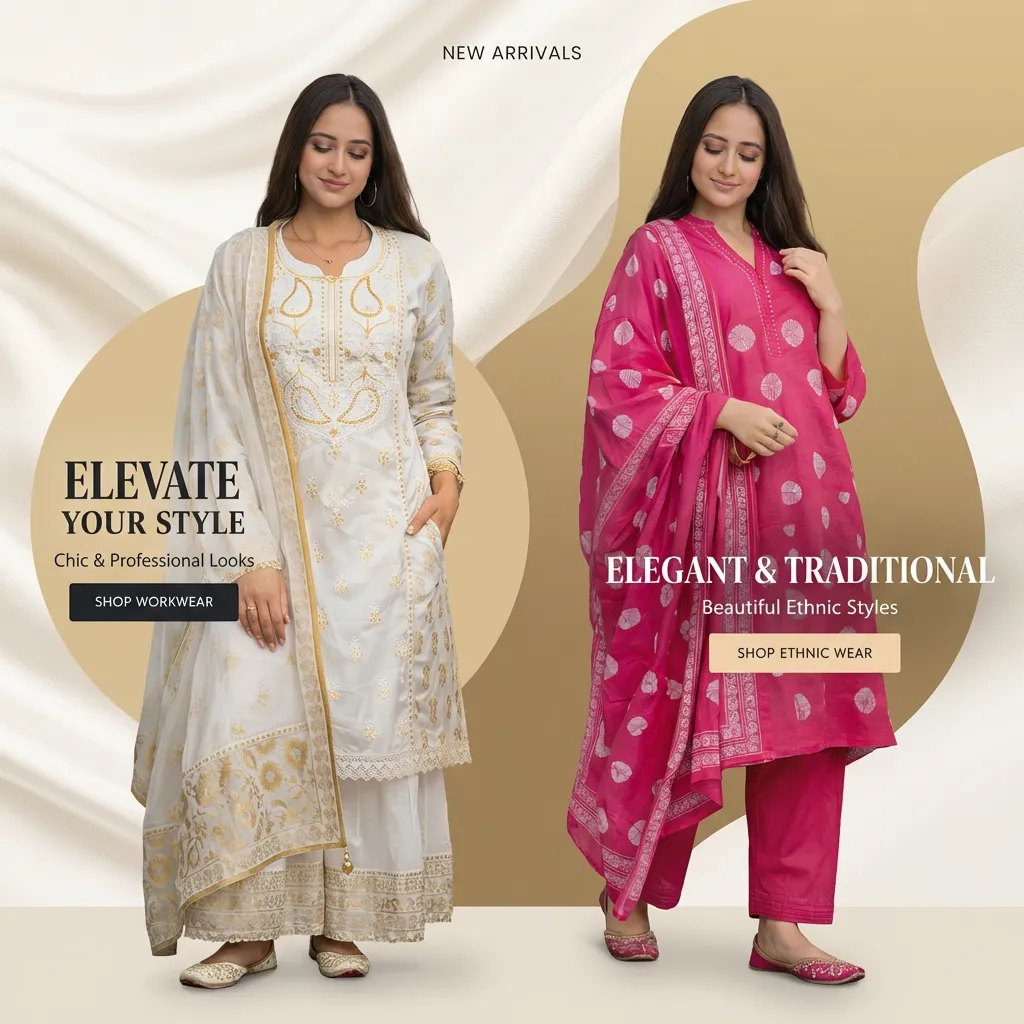
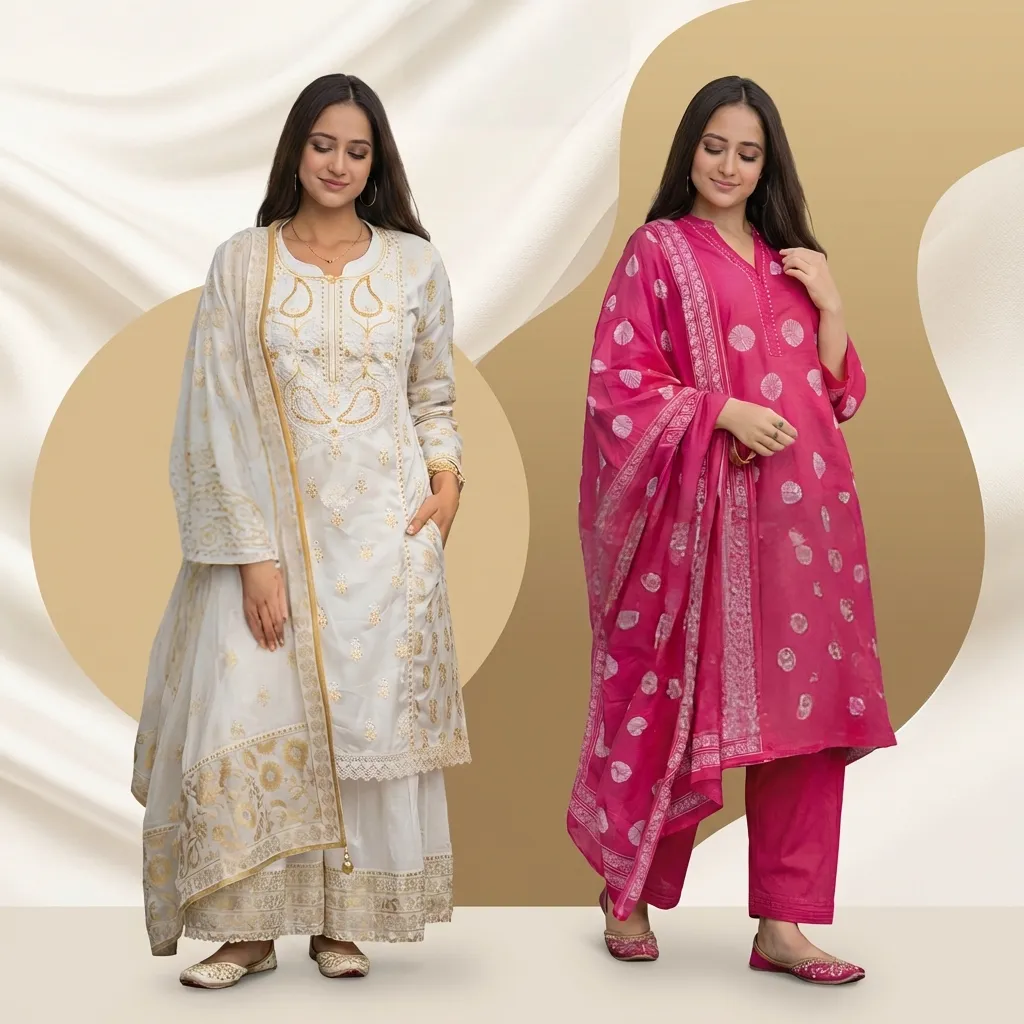
updated

diff --git a/backend/scripts/verify_sort_order.ts b/backend/scripts/verify_sort_order.ts
@@ -1,0 +1,81 @@
+import sequelize from '../src/config/database.js';
+import Product from '../src/modules/catalog/models/product.model.js';
+import Category from '../src/modules/catalog/models/category.model.js';
+
+const verifySortOrder = async () => {
+    try {
+        await sequelize.authenticate();
+        console.log('Database connected.');
+
+        // 1. Create a dummy category if needed
+        let category = await Category.findOne();
+        if (!category) {
+            category = await Category.create({ name: 'Test Cat', slug: 'test-cat', is_active: true });
+        }
+
+        // 2. Clean up old test data (optional, or just ignore)
+        // await Product.destroy({ where: { name: ['Test A', 'Test B', 'Test C'] } });
+
+        // 3. Create 3 products with specific sort_order
+        // Using distinct names to avoid slug collision if possible, or random slugs
+        const timestamp = Date.now();
+        const p1 = await Product.create({
+            name: `Test P1 ${timestamp}`,
+            slug: `test-p1-${timestamp}`,
+            category_id: category.id,
+            base_price: 100,
+            sort_order: 10,
+            is_active: true
+        });
+        const p2 = await Product.create({
+            name: `Test P2 ${timestamp}`,
+            slug: `test-p2-${timestamp}`,
+            category_id: category.id,
+            base_price: 100,
+            sort_order: 20, // Should be first
+            is_active: true
+        });
+        const p3 = await Product.create({
+            name: `Test P3 ${timestamp}`,
+            slug: `test-p3-${timestamp}`,
+            category_id: category.id,
+            base_price: 100,
+            sort_order: 5, // Should be last
+            is_active: true
+        });
+
+        console.log(`Created products: P1(10), P2(20), P3(5)`);
+
+        // 4. Query using the same logic as controller
+        const products = await Product.findAll({
+            where: {
+                id: [p1.id, p2.id, p3.id]
+            },
+            order: [['sort_order', 'DESC'], ['created_at', 'DESC']]
+        });
+
+        const ids = products.map(p => p.id);
+        console.log('Retrieved order:', products.map(p => `${p.name} (${p.sort_order})`));
+
+        // Expected: P2, P1, P3
+        if (ids[0] === p2.id && ids[1] === p1.id && ids[2] === p3.id) {
+            console.log('✅ Verification SUCCEEDED: Products sorted by sort_order DESC.');
+        } else {
+            console.error('❌ Verification FAILED: Incorrect order.');
+            process.exit(1);
+        }
+
+        // Cleanup
+        await p1.destroy();
+        await p2.destroy();
+        await p3.destroy();
+
+        process.exit(0);
+
+    } catch (error) {
+        console.error('Verification Error:', error);
+        process.exit(1);
+    }
+};
+
+verifySortOrder();

diff --git a/admin/src/pages/Products/ProductEditor.jsx b/admin/src/pages/Products/ProductEditor.jsx
@@ -22,7 +22,8 @@ export default function ProductEditor() {
         additionalImages: ['', '', ''], // Array for 3 additional images
         is_active: true,
         is_new_arrival: false,
-        is_featured: false
+        is_featured: false,
+        sort_order: 0
     });
 
     const [categories, setCategories] = useState([]);
@@ -65,7 +66,8 @@ export default function ProductEditor() {
                                 : ['', '', ''],
                             is_active: product.is_active !== undefined ? product.is_active : true,
                             is_new_arrival: product.is_new_arrival || false,
-                            is_featured: product.is_featured || false
+                            is_featured: product.is_featured || false,
+                            sort_order: product.sort_order || 0
                         });
 
                         // Fill remaining slots if less than 3 images
@@ -166,7 +168,10 @@ export default function ProductEditor() {
                 category_id: formData.category,
                 is_active: formData.is_active,
                 is_new_arrival: formData.is_new_arrival,
-                is_featured: formData.is_featured
+                is_active: formData.is_active,
+                is_new_arrival: formData.is_new_arrival,
+                is_featured: formData.is_featured,
+                sort_order: parseInt(formData.sort_order) || 0
             };
 
             if (isEditing) {
@@ -396,6 +401,19 @@ export default function ProductEditor() {
                                     </option>
                                 ))}
                             </select>
+                        </div>
+
+                        <div>
+                            <label className="block text-xs font-bold uppercase tracking-widest text-stone-400 mb-2">Sort Order</label>
+                            <input
+                                type="number"
+                                name="sort_order"
+                                value={formData.sort_order}
+                                onChange={handleChange}
+                                className="w-full px-4 py-3 rounded-lg bg-stone-50 border border-stone-200 focus:border-ruvera-gold outline-none"
+                                placeholder="0"
+                            />
+                            <p className="text-xs text-stone-400 mt-1">Higher numbers appear first.</p>
                         </div>
 
                         <div>

diff --git a/admin/src/pages/Products/ProductList.jsx b/admin/src/pages/Products/ProductList.jsx
@@ -117,6 +117,7 @@ export default function ProductList() {
                         <thead>
                             <tr className="bg-stone-50 border-b border-stone-100">
                                 <th className="p-4 font-medium text-stone-500 uppercase tracking-wider text-xs">Product</th>
+                                <th className="p-4 font-medium text-stone-500 uppercase tracking-wider text-xs">Order</th>
                                 <th className="p-4 font-medium text-stone-500 uppercase tracking-wider text-xs">Code</th>
                                 <th className="p-4 font-medium text-stone-500 uppercase tracking-wider text-xs">Price</th>
                                 <th className="p-4 font-medium text-stone-500 uppercase tracking-wider text-xs">Status</th>
@@ -167,6 +168,7 @@ export default function ProductList() {
                                                 </div>
                                             </div>
                                         </td>
+                                        <td className="p-4 text-sm text-stone-600 font-mono">{product.sort_order}</td>
                                         <td className="p-4 text-sm text-stone-600 font-mono">{product.code}</td>
                                         <td className="p-4 text-sm font-medium text-midnight">{settings.currency_symbol}{product.price.toLocaleString()}</td>
                                         <td className="p-4">

diff --git a/backend/scripts/add_sort_order.js b/backend/scripts/add_sort_order.js
@@ -1,0 +1,28 @@
+import sequelize from '../src/config/database.js';
+
+const runMigration = async () => {
+    try {
+        await sequelize.authenticate();
+        console.log('Database connection estabilished.');
+
+        const table = 'products';
+        console.log(`Checking table: ${table}`);
+
+        const [columns] = await sequelize.query(`SHOW COLUMNS FROM ${table} LIKE 'sort_order'`);
+
+        if (columns.length === 0) {
+            console.log(`Adding sort_order to ${table}`);
+            await sequelize.query(`ALTER TABLE ${table} ADD COLUMN sort_order INTEGER DEFAULT 0`);
+        } else {
+            console.log(`sort_order already exists in ${table}`);
+        }
+
+        console.log('Migration completed successfully.');
+        process.exit(0);
+    } catch (error) {
+        console.error('Migration failed:', error);
+        process.exit(1);
+    }
+};
+
+runMigration();

diff --git a/backend/src/app.ts b/backend/src/app.ts
@@ -25,7 +25,15 @@ import notificationRoutes from './modules/notification/notification.routes.js';
 
 // Middleware - CORS configuration
 app.use(cors({
-    origin: ['http://localhost:3014', 'http://localhost:3000'],
+    origin: [
+        'http://localhost:3014',
+        'http://localhost:3000',
+        'http://localhost:5173',
+        'https://ruveracouture.com',
+        'https://admin.ruveracouture.com',
+        process.env.FRONTEND_URL,
+        process.env.ADMIN_URL
+    ].filter(Boolean) as string[], // Filter out undefined values
     credentials: true,
     methods: ['GET', 'POST', 'PUT', 'DELETE', 'PATCH', 'OPTIONS'],
     allowedHeaders: ['Content-Type', 'Authorization']

diff --git a/backend/src/modules/catalog/product.controller.js b/backend/src/modules/catalog/product.controller.js
@@ -71,7 +71,7 @@ export const getAllProducts = async (req, res) => {
             limit: parseInt(limit),
             offset: parseInt(offset),
             include,
-            order: [['created_at', 'DESC']],
+            order: [['sort_order', 'DESC'], ['created_at', 'DESC']],
             distinct: true,
         });
 

diff --git a/backend/src/modules/catalog/models/product.model.js b/backend/src/modules/catalog/models/product.model.js
@@ -62,6 +62,10 @@ const Product = sequelize.define('Product', {
         type: DataTypes.BOOLEAN,
         defaultValue: false,
     },
+    sort_order: {
+        type: DataTypes.INTEGER,
+        defaultValue: 0,
+    },
     view_count: {
         type: DataTypes.INTEGER,
         defaultValue: 0,
